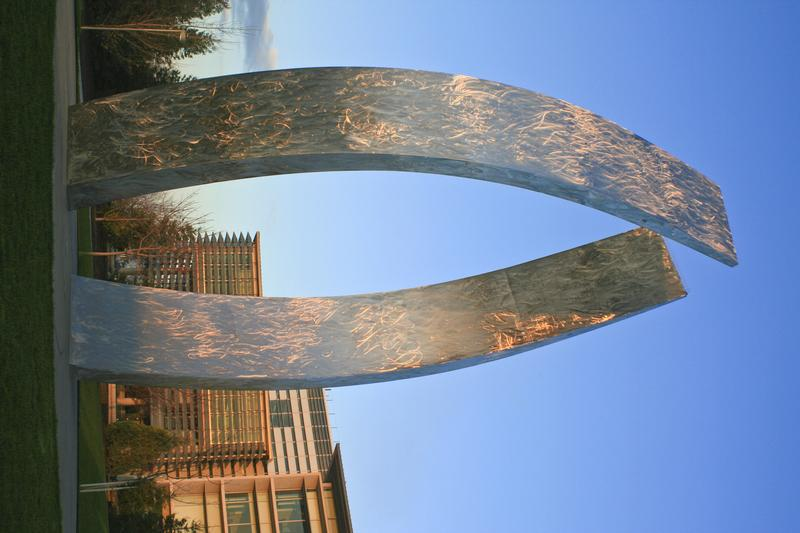
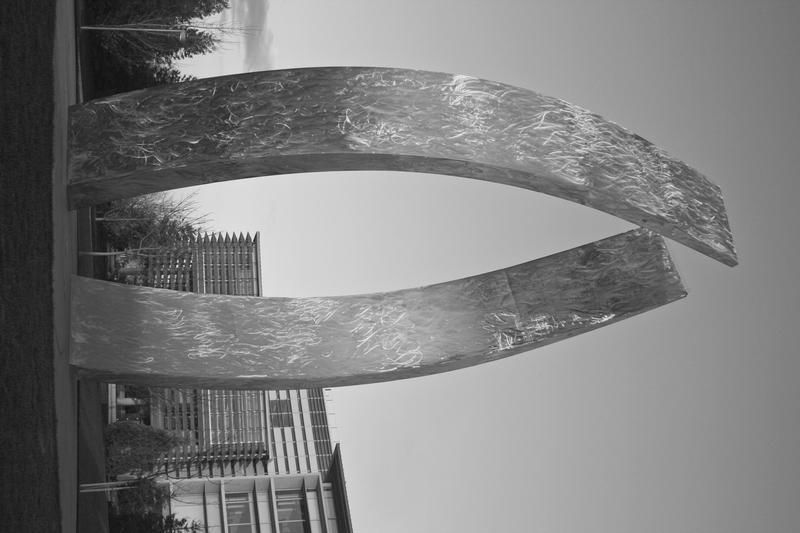
Fixted task 1

diff --git a/LAB 2/Task1.py b/LAB 2/Task1.py
@@ -75,11 +75,12 @@ im_gray_rot.save("Beginnings_grayscale_Rotated.jpg")
 #============================================
 #           second rotation
 #============================================
+im_rot = ImageOps.grayscale(im)
 
 
 
 # Get access to the pixel values through the matrix im_gray_pixels.
-im_pixels = asarray(im)
+im_pixels = asarray(im_rot)
 
 
 # --------------------------------
